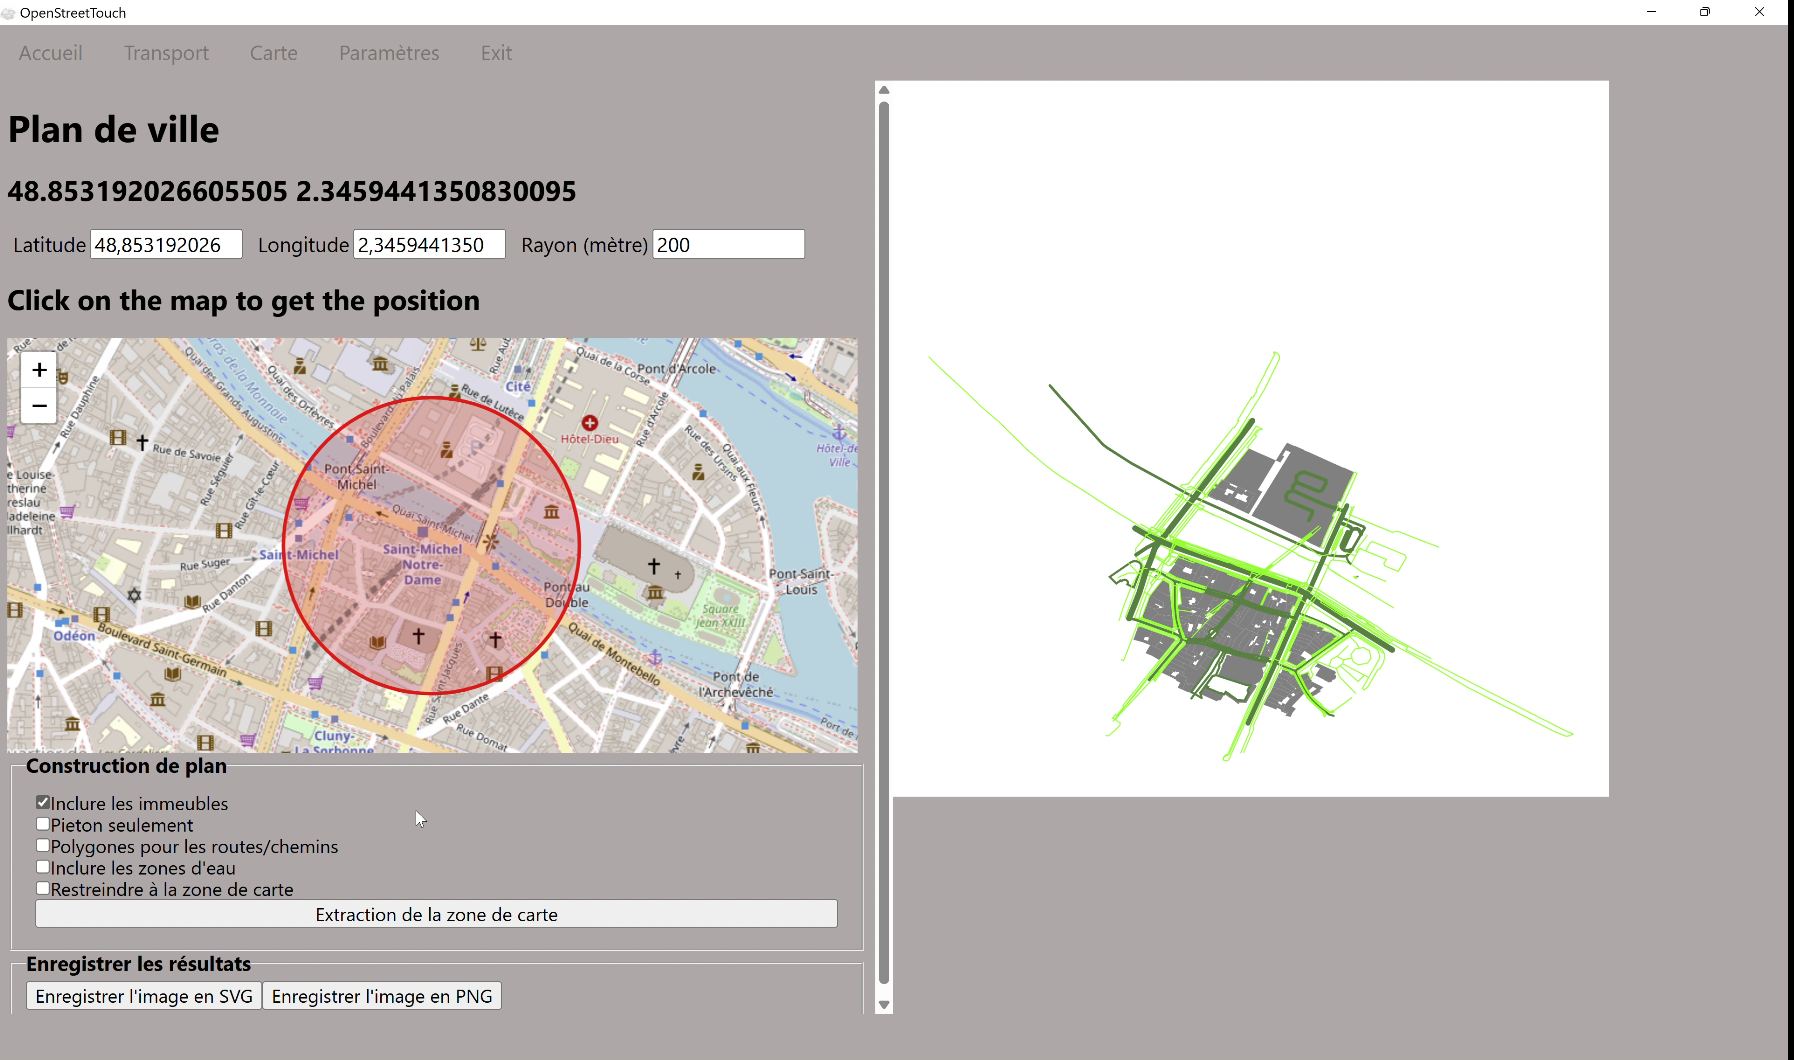
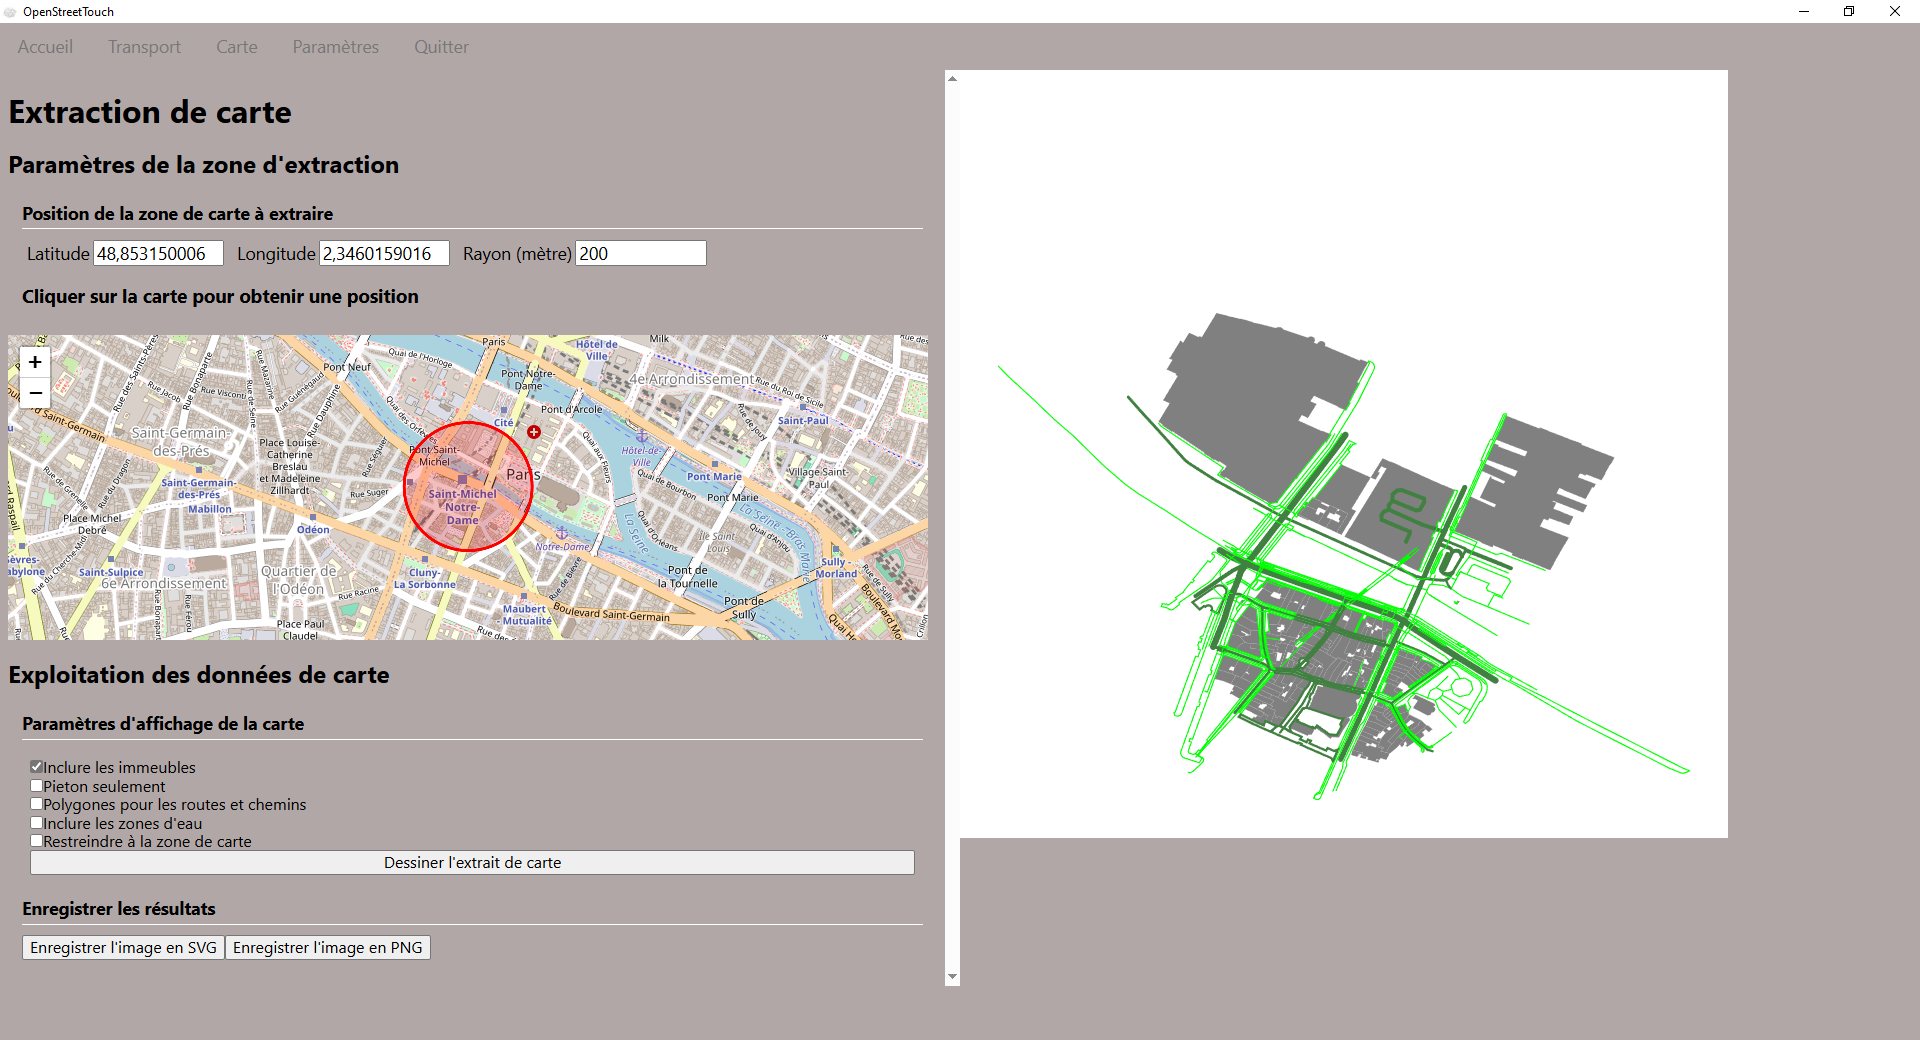
fix some title and screenshot

diff --git a/docs/manuel_utilisateur.md b/docs/manuel_utilisateur.md
@@ -179,7 +179,7 @@ Passer en mode d’affichage Contour: Menu : Affichage > Contours
 
 
 ## Carte
-**Plan de ville**
+**Extraction de carte**
 
 Cet onglet permet d'extraire une carte à partir d’un point central et d’un rayon. A noter que la carte extraite est au format rectangulaire (le cercle tracé à partir du rayon est transformé en rectangle pour la génération de la carte)
 

diff --git a/docs/index.rst b/docs/index.rst
@@ -7,10 +7,7 @@ Bienvenue sur la documentation OpenStreetTouch
 
 |
 
- .. warning::
-    **Build in Progress** 
-    OpenStreetTouch documentation will be available soon.
-    
+  
 
 |
 .. toctree::
